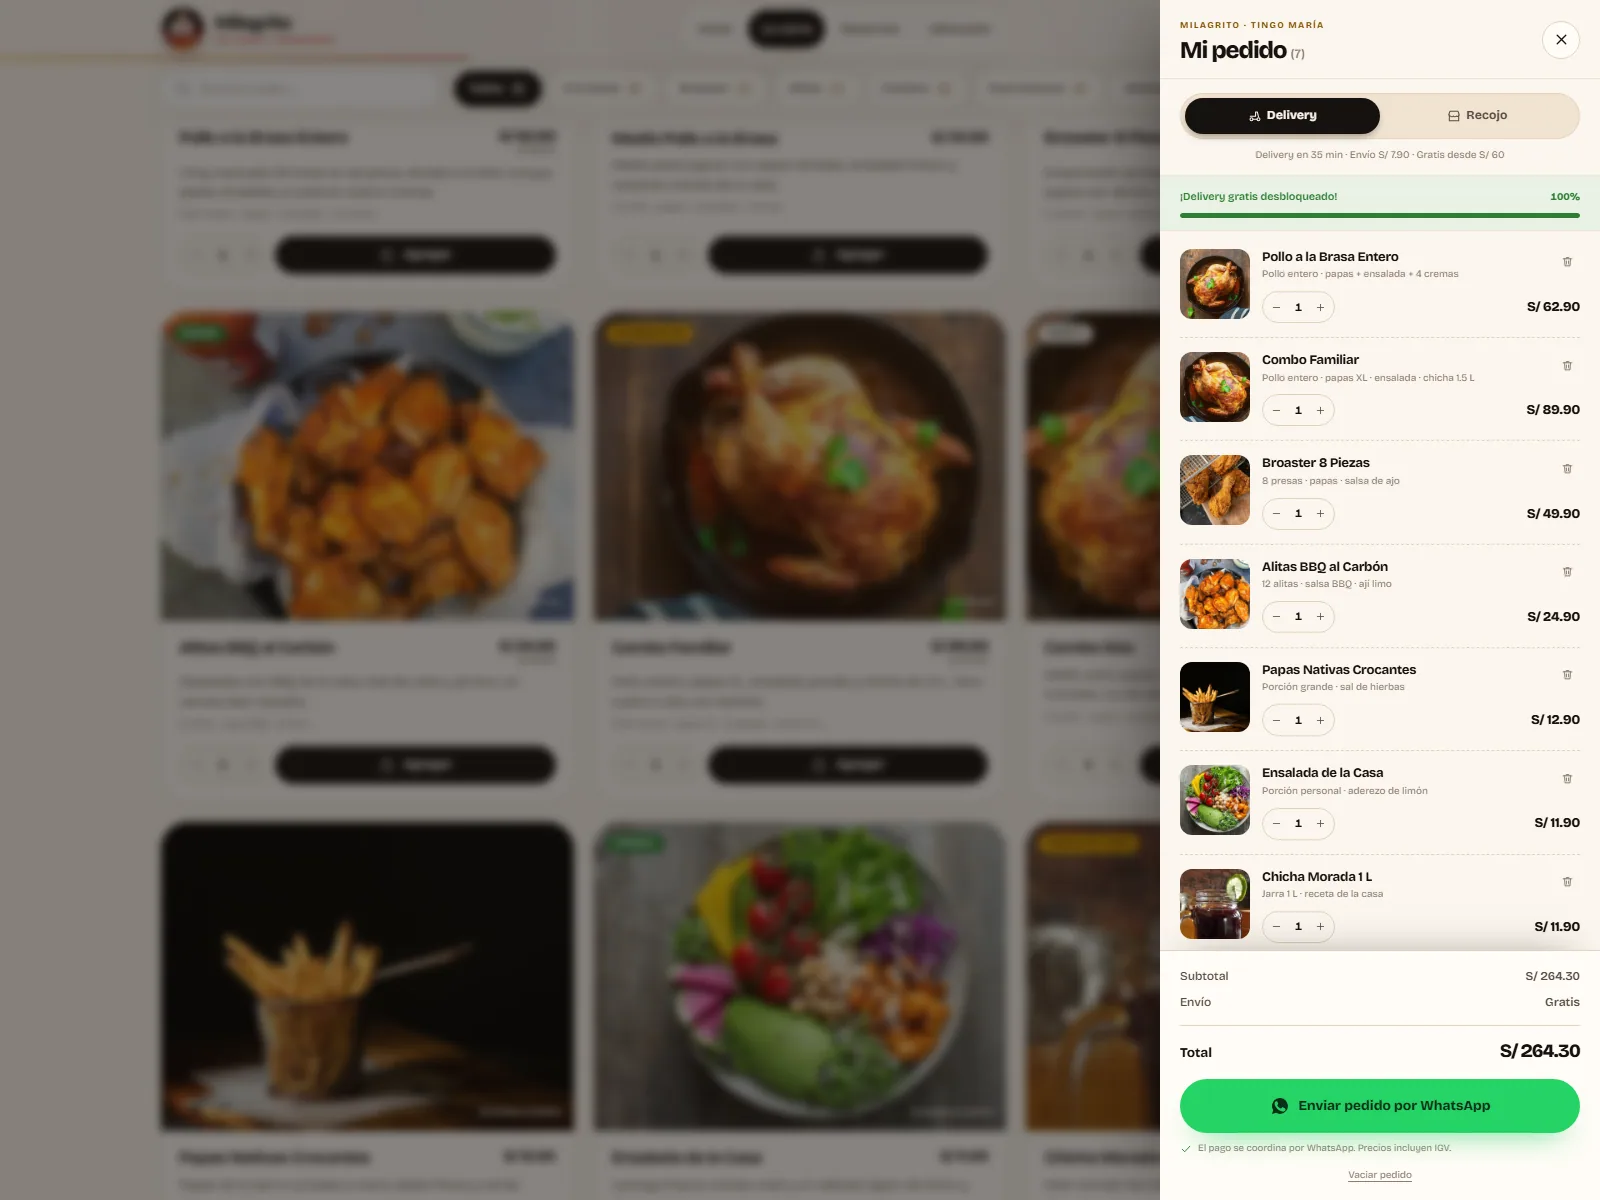
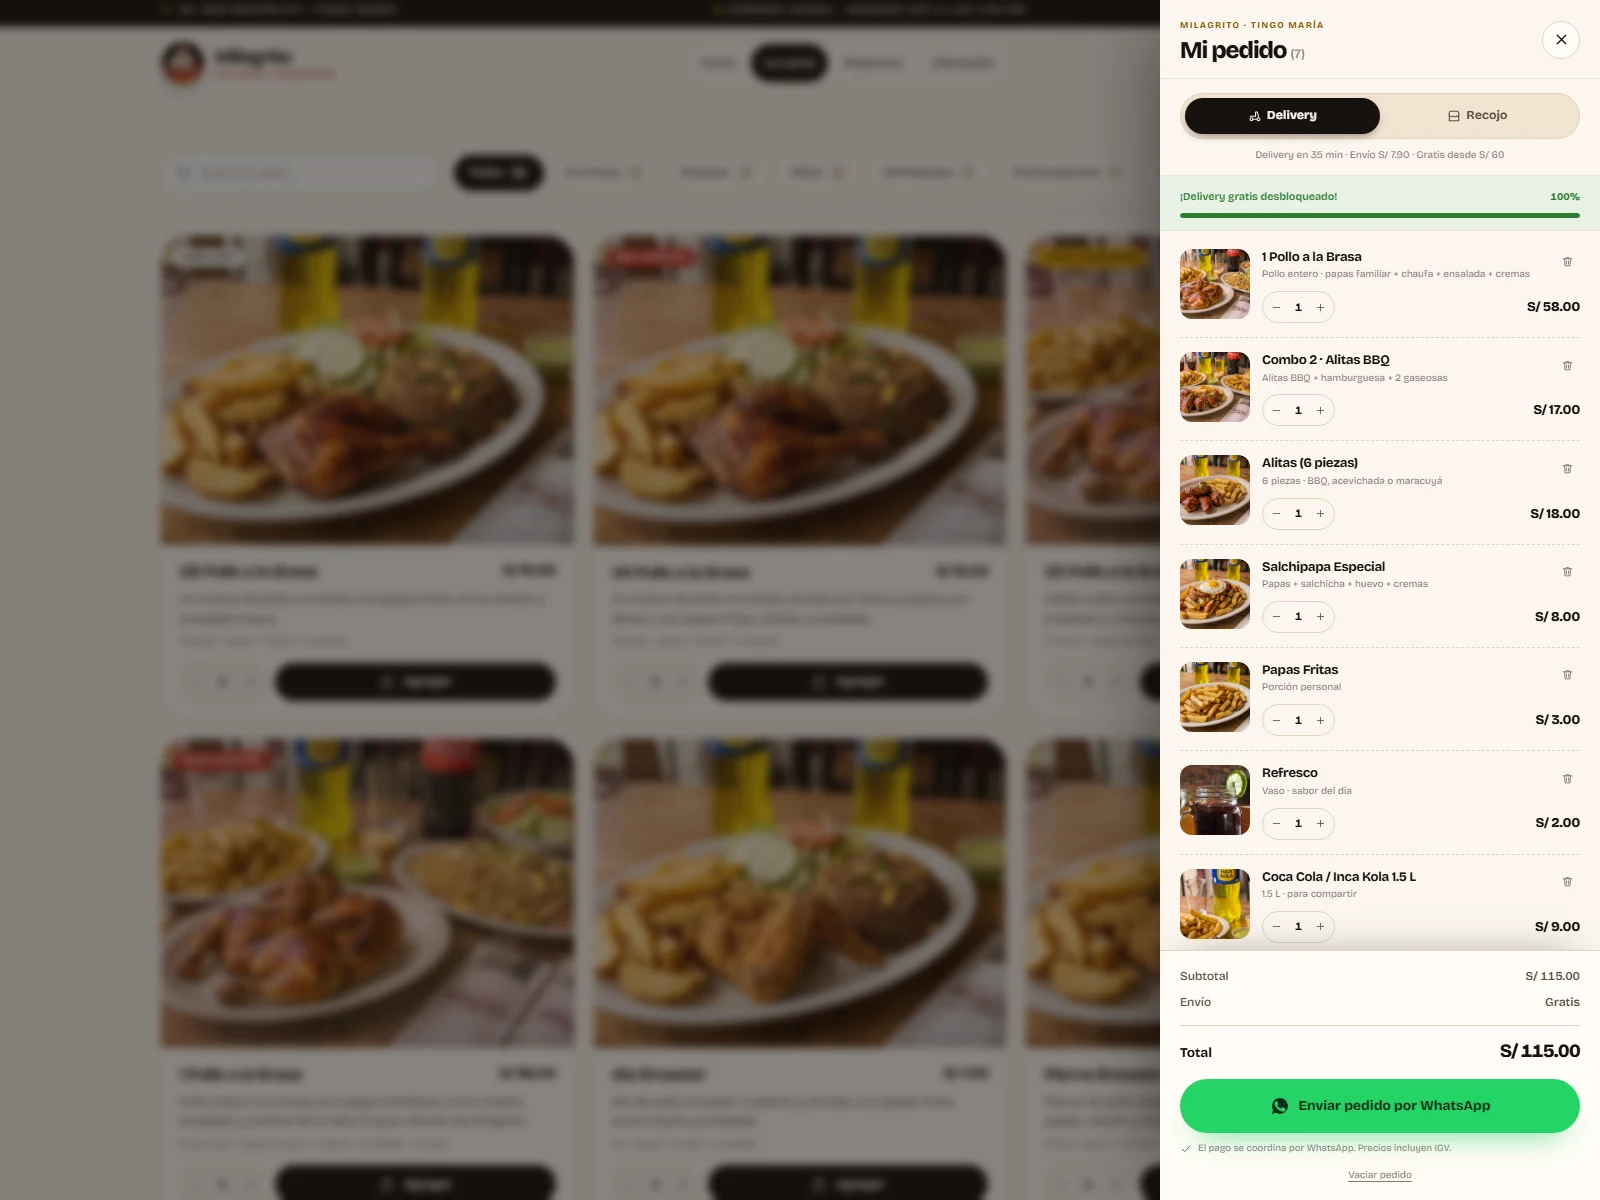
feat: anade Grafi Crash con capturas reales y actualiza Milagrito

diff --git a/src/app/data/projects.ts b/src/app/data/projects.ts
@@ -84,6 +84,92 @@ export const PROJECTS: Project[] = [
     updated: '2026-11-09',
   },
   {
+    slug: 'grafi-crash',
+    title: 'Grafi Cr∆sh — Web de servicios y panel de gestión',
+    subtitle: 'Web de publicidad, cotizador y panel para llevar pedidos, producción y caja.',
+    year: 2026,
+    kind: 'desarrollo',
+    status: 'Demo funcional',
+
+    cover: '/proyectos/grafi-crash/cover.webp',
+    coverAlt:
+      'Portada de Grafi Cr∆sh con el mensaje de publicidad y marketing digital y el acceso a la cotización',
+
+    stack: ['angular', 'typescript', 'sass', 'vercel'],
+
+    summary:
+      'La web de una empresa de publicidad de Tingo María y el panel con el que el negocio la opera. El cliente recorre los servicios, revisa trabajos, arma su cotización y la envía por WhatsApp; también consulta el avance de su pedido con el código del ticket. En el panel, el equipo crea tickets, controla la producción, cobra adelantos y saldos, cuadra caja y publica contenido sin tocar código.',
+
+    problem:
+      'Las cotizaciones, los pedidos y el estado de cada trabajo vivían en conversaciones de WhatsApp y cuadernos. El negocio no tenía una vista común de qué estaba en diseño, en producción o listo, ni de cuánto faltaba cobrar; y publicar un servicio o un trabajo nuevo dependía de un programador.',
+
+    solution:
+      'La web ordena la entrada: cada servicio tiene su página con precios referenciales, el cotizador arma el mensaje con lo que el cliente necesita y el seguimiento muestra el estado del pedido con el código y los últimos cuatro dígitos del celular. En el panel, cada pedido se vuelve un ticket con su código, medidas, adelanto y saldo; avanza por estados, registra pagos y recibe pruebas de diseño para que el cliente las apruebe. El contenido de la web se publica u oculta desde el mismo panel.',
+
+    highlights: [
+      'El cliente cotiza y sigue su pedido sin llamar',
+      'Cada trabajo se sigue de recibido a entregado',
+      'El contenido de la web se edita sin programar',
+    ],
+
+    metrics: [
+      { value: '12', label: 'servicios publicados' },
+      { value: '12', label: 'trabajos en el portafolio' },
+      { value: '3', label: 'roles con permisos propios' },
+      { value: '84', label: 'pruebas automatizadas' },
+    ],
+
+    gallery: [
+      {
+        src: '/proyectos/grafi-crash/detalle-1.webp',
+        alt: 'Catálogo de servicios de publicidad con filtros por categoría y precios referenciales en soles',
+        caption: 'Servicios con filtros, precios desde y ficha de cada uno',
+        ratio: '4 / 3',
+      },
+      {
+        src: '/proyectos/grafi-crash/detalle-2.webp',
+        alt: 'Formulario Consulta tu pedido con código de ticket y últimos cuatro dígitos del celular',
+        caption: 'El cliente consulta su pedido con el código del ticket',
+        ratio: '4 / 3',
+      },
+      {
+        src: '/proyectos/grafi-crash/detalle-3.webp',
+        alt: 'Formulario de cotización con servicio, cantidad, material, instalación y datos de contacto',
+        caption: 'Cotizador que arma el mensaje de WhatsApp',
+        ratio: '4 / 3',
+      },
+      {
+        src: '/proyectos/grafi-crash/detalle-4.webp',
+        alt: 'Panel de inicio con tickets del día, atrasados, saldos por cobrar y cobrado del mes',
+        caption: 'Panel con los indicadores del negocio',
+        ratio: '4 / 3',
+      },
+      {
+        src: '/proyectos/grafi-crash/detalle-5.webp',
+        alt: 'Tablero de tickets en columnas desde recibido hasta listo para recoger, con el saldo de cada pedido',
+        caption: 'Tablero de pedidos por estado de producción',
+        ratio: '4 / 3',
+      },
+      {
+        src: '/proyectos/grafi-crash/detalle-6.webp',
+        alt: 'Detalle del ticket GC-000023 con estados, pagos, prueba de diseño aprobada y código QR',
+        caption: 'Ticket con pagos, prueba de diseño y QR de consulta',
+        ratio: '4 / 3',
+      },
+    ],
+
+    links: [
+      { label: 'Ver sitio', href: 'https://grafi-crash.vercel.app/', kind: 'demo' },
+      {
+        label: 'Abrir panel',
+        href: 'https://grafi-crash.vercel.app/admin/login',
+        kind: 'demo',
+      },
+    ],
+
+    updated: '2026-11-19',
+  },
+  {
     slug: 'motoandes-peru',
     title: 'MotoAndes Perú — Tienda y panel de gestión',
     subtitle: 'Web de venta de motos, repuestos y taller con panel de administración para tres sedes.',
@@ -413,8 +499,8 @@ export const PROJECTS: Project[] = [
     ],
 
     metrics: [
-      { value: '9', label: 'platos en la carta' },
-      { value: '6', label: 'categorías del menú' },
+      { value: '38', label: 'platos en la carta' },
+      { value: '10', label: 'categorías del menú' },
       { value: '5', label: 'zonas de delivery' },
     ],
 
@@ -453,7 +539,7 @@ export const PROJECTS: Project[] = [
 
     links: [{ label: 'Ver sitio', href: 'https://milagritos-demo-mvp.vercel.app/', kind: 'demo' }],
 
-    updated: '2026-11-12',
+    updated: '2026-11-13',
   },
   {
     slug: 'pisco-rain-extractor',
